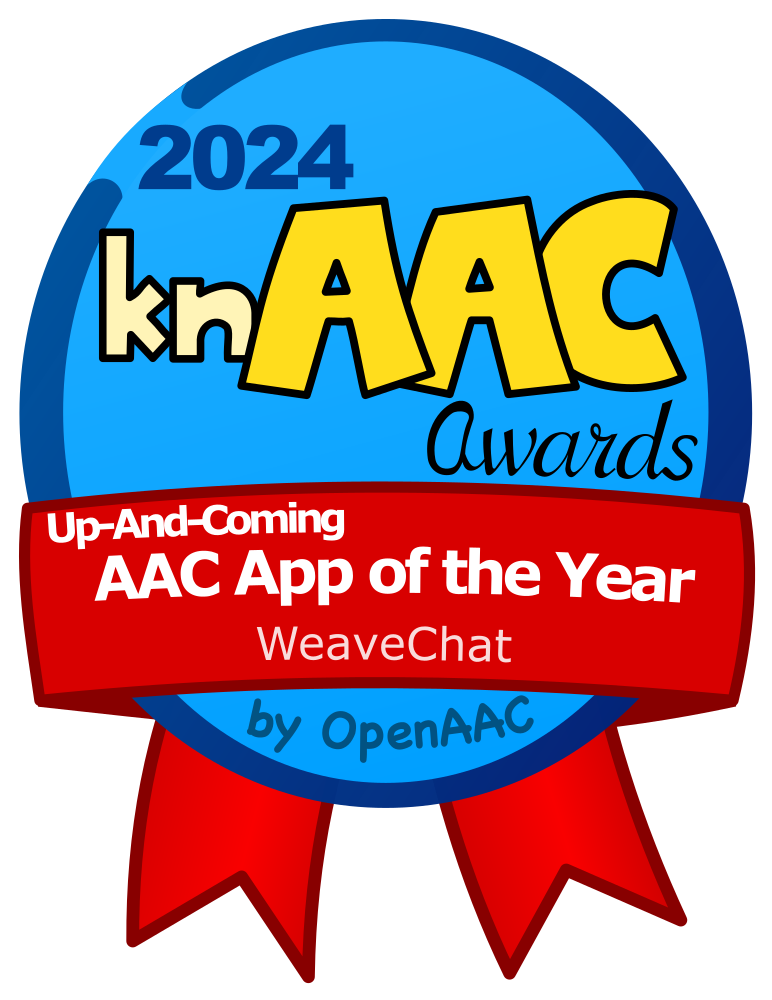
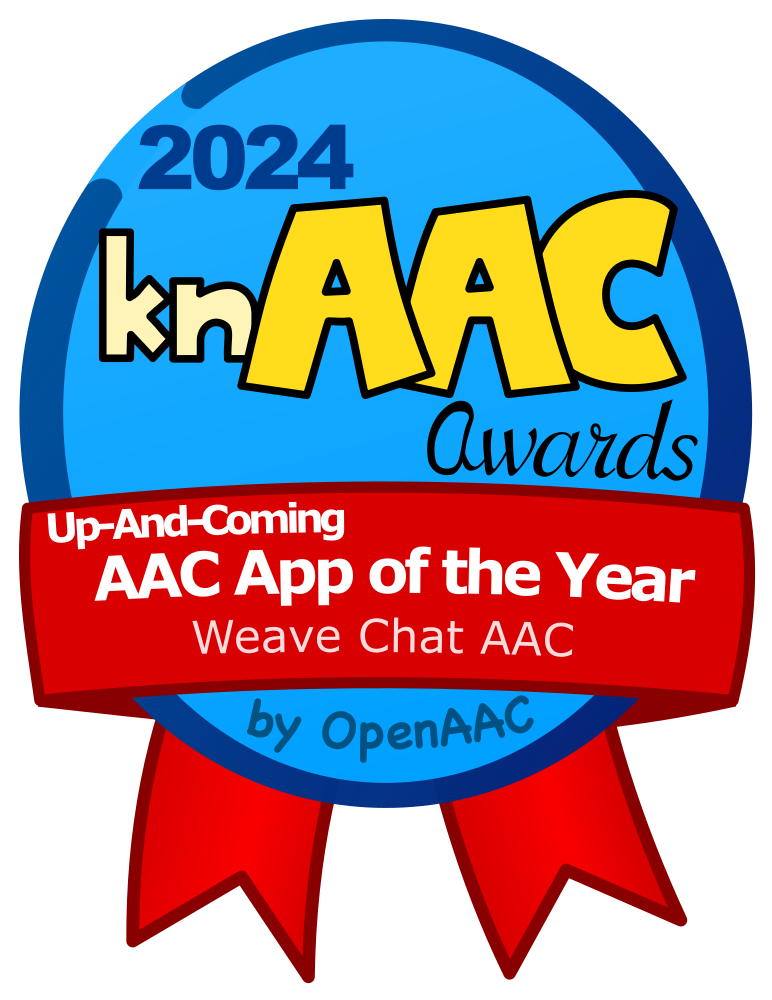
knaac revisions

Changed region(s): [[0.2487, 0.62, 0.7461, 0.682]]

diff --git a/knaac-awards/2024/index.md b/knaac-awards/2024/index.md
@@ -433,7 +433,7 @@ bg: 4
   <div class='nominees'>
     <div class='nominee' data-rank='1'>
       <a href="https://www.weavechat.com/" target='_blank'>
-      <h4>WeaveChat</h4>
+      <h4>Weave Chat AAC</h4>
       <img src="/images/2024/weave.png" class='img' alt='' />
       </a>
       <span class='sub'>
@@ -506,7 +506,7 @@ bg: 4
     </div>
     <div class='nominee' data-rank='2'>
       <a href="https://www.weavechat.com/" target='_blank'>
-      <h4>WeaveChat - Direct Messaging</h4>
+      <h4>Weave Chat - Direct Messaging</h4>
       <img src="/images/2024/weave.png" class='img' alt='' />
       </a>
       <span class='sub'>
@@ -777,7 +777,7 @@ bg: 4
       <img src="/images/2024/knaac/omazing-kids.jpeg" class='img' alt='' />
       </a>
       <span class='sub'>
-        Angela Moorad, MS, CCC-SLP. Over 34 years experience in AAC. OMazing Kids AAC and app consulting. Creator of several AAC Feature Matching resources (https://omazingkidsllc.com/omazing-kids-aac-resource-links/). Includes info about unique features to support Gestalt Language Processors
+        Angela Moorad, MS, CCC-SLP. Over 35 years experience in AAC. OMazing Kids AAC and app consulting. Creator of several AAC Feature Matching resources (https://omazingkidsllc.com/omazing-kids-aac-resource-links/). Includes info about unique features to support Gestalt Language Processors
       </span>
     </div>
     <div class='nominee' data-rank='3'>
